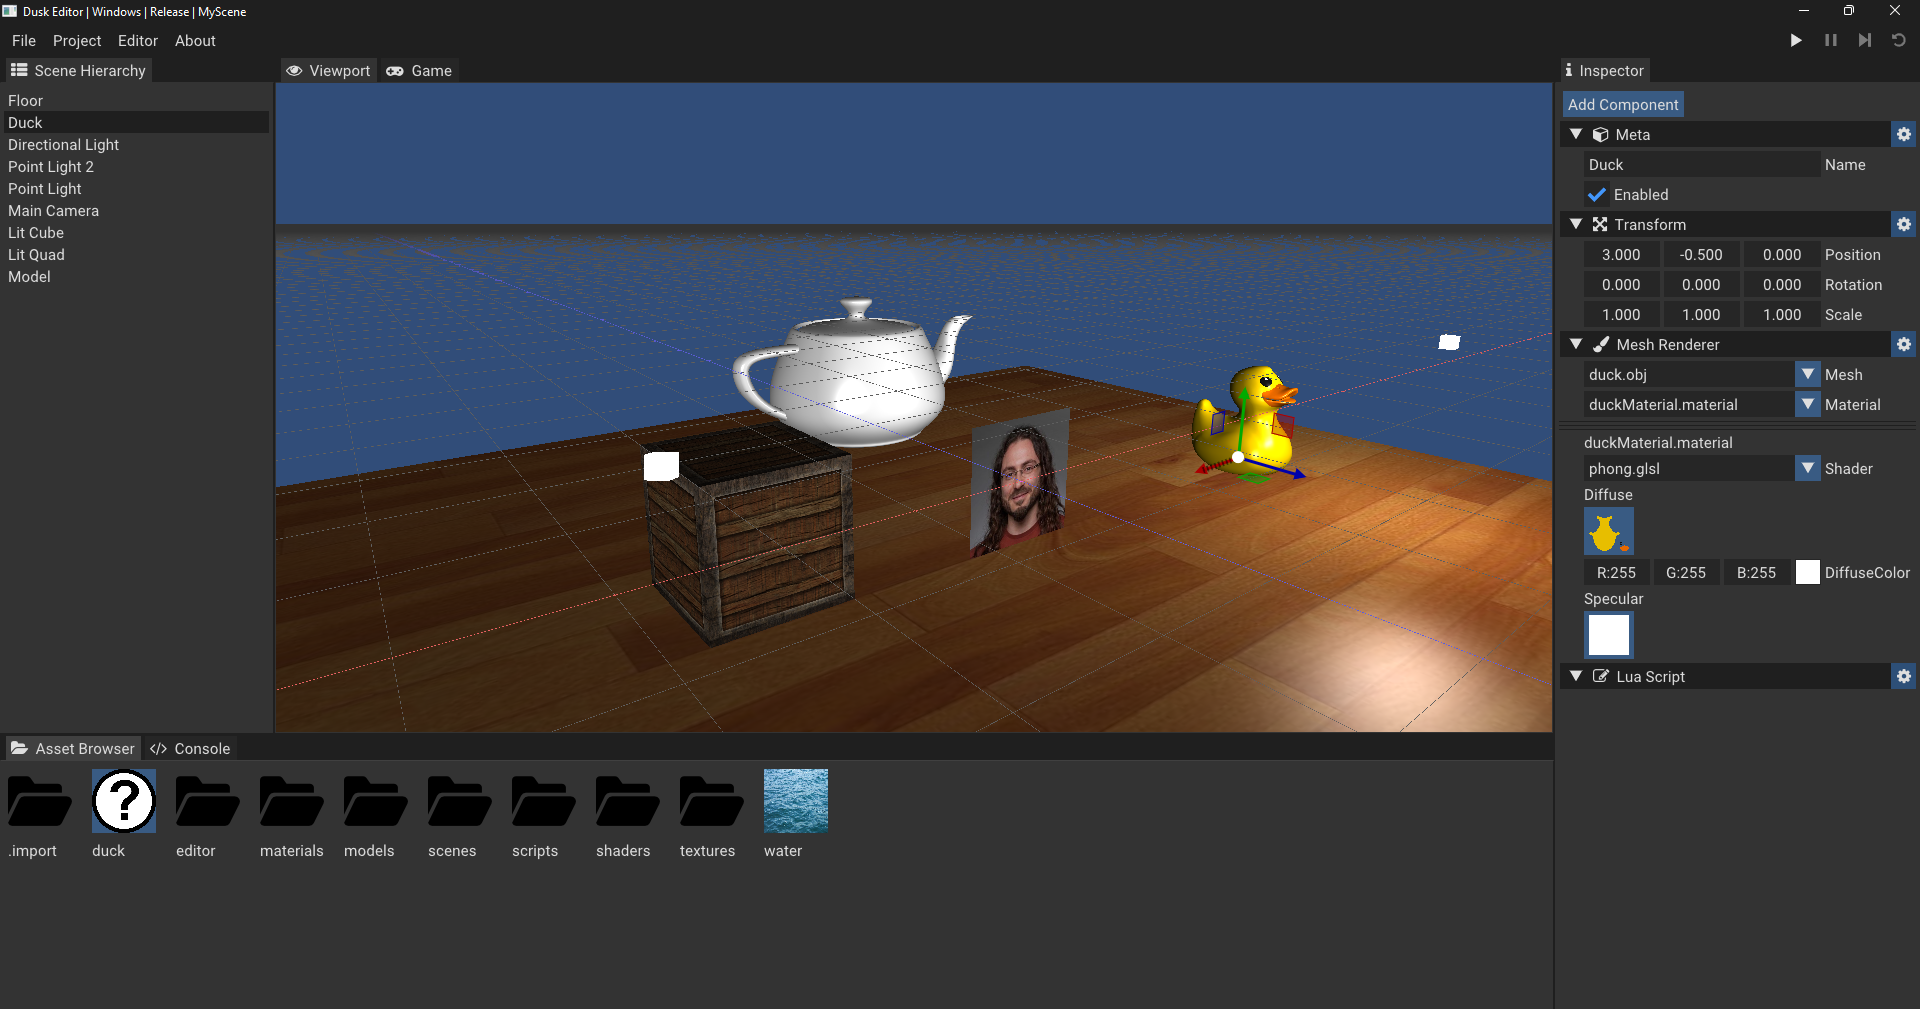
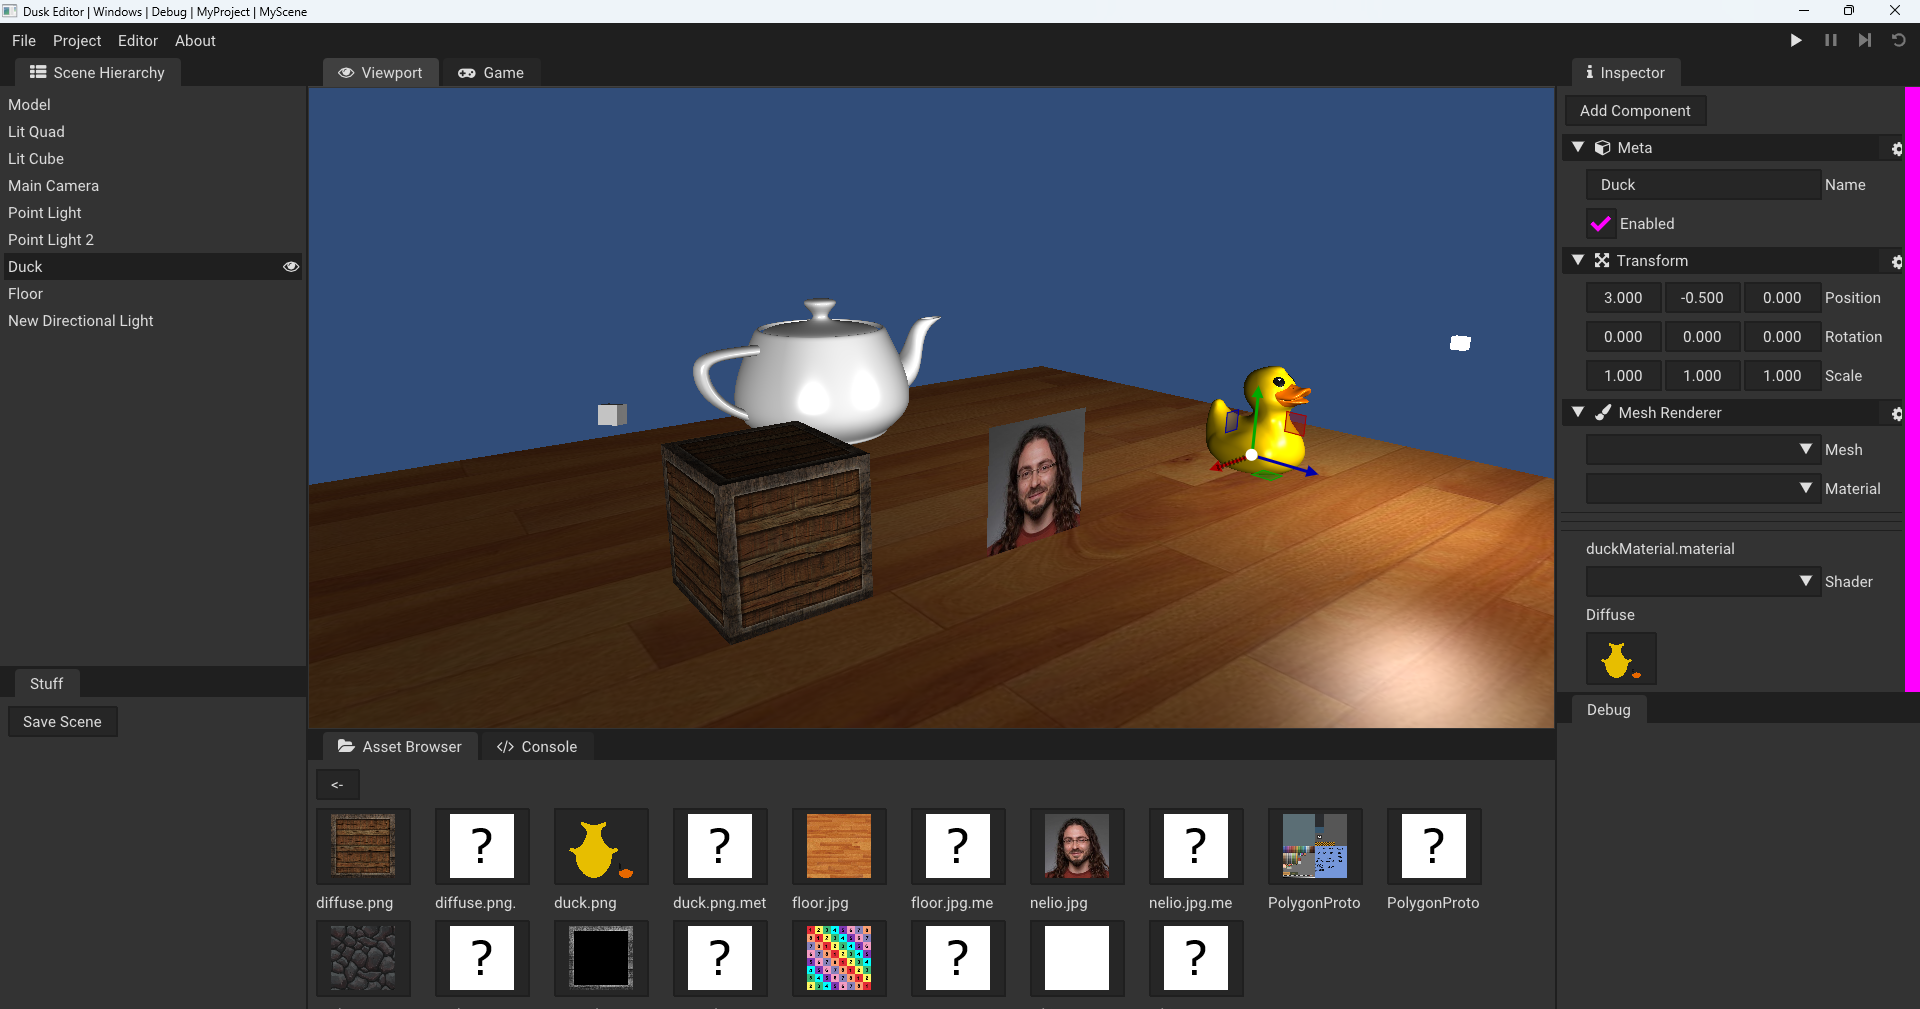
ContentBrowserPanel - Caching of textures

diff --git a/DuskEditor/src/DuskEditor/Panels/ContentBrowserPanel.cpp b/DuskEditor/src/DuskEditor/Panels/ContentBrowserPanel.cpp
@@ -27,7 +27,7 @@ namespace DuskEngine
 		g_currentDir = &m_CurrentDirectory;
 		m_CurrentDirectory = m_RootDirectory;
 
-		//m_Icons.resize(50);
+		m_IconsInProject.reserve(50);
 
 		CreateDirectoryItems();
 		CreateDirectoryResources();
@@ -37,6 +37,11 @@ namespace DuskEngine
 	{
 		OpenGLAPI::FreeTexture(m_FolderIcon);
 		OpenGLAPI::FreeTexture(m_UnknownIcon);
+
+		for (std::pair<uuids::uuid, Texture> texture : m_IconsInProject)
+		{
+			OpenGLAPI::FreeTexture(texture.second);
+		}
 	}
 
 	void ContentBrowserPanel::OnImGuiRender()
@@ -63,7 +68,7 @@ namespace DuskEngine
 		float buttonSpacing = 25.0f;
 		bool shouldBreak = false;
 
-		for (size_t i = 0; i < buttonsCount; i++)
+		for (uint32_t i = 0; i < buttonsCount; i++)
 		{
 			auto& directoryEntry = m_DirEntries[i];
 
@@ -82,7 +87,7 @@ namespace DuskEngine
 			}
 			else if (directoryEntry.path().extension() == ".png" || directoryEntry.path().extension() == ".jpg")
 			{
-				ImGui::ImageButton((ImTextureID)(uint64_t)m_Icons[textureIndex++].ResourceID, ImVec2(buttonSize, buttonSize), ImVec2(0, 1), ImVec2(1, 0));
+				ImGui::ImageButton((ImTextureID)(uint64_t)m_IconsInDirectory[textureIndex++].ResourceID, ImVec2(buttonSize, buttonSize), ImVec2(0, 1), ImVec2(1, 0));
 			}
 			else
 			{
@@ -236,37 +241,42 @@ namespace DuskEngine
 	void ContentBrowserPanel::CreateDirectoryResources()
 	{
 		Timer timer("CreateDirectoryResources");
-		m_Icons.resize(0);
+		m_IconsInDirectory.resize(0);
 		for (auto& directoryEntry : std::filesystem::directory_iterator(m_CurrentDirectory))
 		{
 			if(directoryEntry.path().extension() == ".png" || directoryEntry.path().extension() == ".jpg")
 			{
-				m_Icons.push_back(CreateTexture(directoryEntry.path(), Application::Get().GetAssetDatabase().GetUUID(directoryEntry.path()), m_RootDirectory.string()));
+				auto& uuid = Application::Get().GetAssetDatabase().GetUUID(directoryEntry.path());
+				if (m_IconsInProject.find(uuid) == m_IconsInProject.end())
+					m_IconsInProject[uuid] = CreateTexture(directoryEntry.path(), uuid, m_RootDirectory.string());
+				
+				m_IconsInDirectory.push_back(m_IconsInProject[uuid]);
 			}
 		}
 	}
 
 	void DropCallback(GLFWwindow* window, int count, const char** paths)
 	{
-		for (int i = 0; i < count; i++)
-		{
-			std::filesystem::path path = paths[i];
-#ifdef DUSK_WINDOWS
-			std::string targetPath =  (*g_currentDir).string() + "\\" + path.filename().string();
-#elif DUSK_LINUX
-			std::string targetPath = (*g_currentDir).string() + "/" + path.filename().string();
-#endif
-
-			if(!std::filesystem::exists(targetPath))
-			{
-				std::filesystem::copy(paths[i], *g_currentDir);
-				Application::Get().GetAssetDatabase().CreateResource(targetPath);
-			}
-			else
-			{
-				std::filesystem::remove(targetPath);
-				std::filesystem::copy(paths[i], *g_currentDir);
-			}			
-		}
+		TRACE("Drop callback");
+//		for (int i = 0; i < count; i++)
+//		{
+//			std::filesystem::path path = paths[i];
+//#ifdef DUSK_WINDOWS
+//			std::string targetPath =  (*g_currentDir).string() + "\\" + path.filename().string();
+//#elif DUSK_LINUX
+//			std::string targetPath = (*g_currentDir).string() + "/" + path.filename().string();
+//#endif
+//
+//			if(!std::filesystem::exists(targetPath))
+//			{
+//				std::filesystem::copy(paths[i], *g_currentDir);
+//				Application::Get().GetAssetDatabase().CreateResource(targetPath);
+//			}
+//			else
+//			{
+//				std::filesystem::remove(targetPath);
+//				std::filesystem::copy(paths[i], *g_currentDir);
+//			}			
+//		}
 	}
 }

diff --git a/DuskEditor/src/DuskEditor/Panels/ContentBrowserPanel.h b/DuskEditor/src/DuskEditor/Panels/ContentBrowserPanel.h
@@ -5,6 +5,12 @@
 
 #include <filesystem>
 #include <vector>
+#include <unordered_map>
+
+namespace uuids
+{
+	class uuid;
+}
 
 namespace DuskEngine
 {
@@ -26,7 +32,8 @@ namespace DuskEngine
 		std::vector<std::filesystem::directory_entry> m_DirEntries;
 
 		Texture m_FolderIcon, m_UnknownIcon;
-		std::vector<Texture> m_Icons;
+		std::vector<Texture> m_IconsInDirectory;
+		std::unordered_map<uuids::uuid ,Texture> m_IconsInProject;
 
 		unsigned int m_EditingName = -1;
 		std::filesystem::path m_EditingPath;
